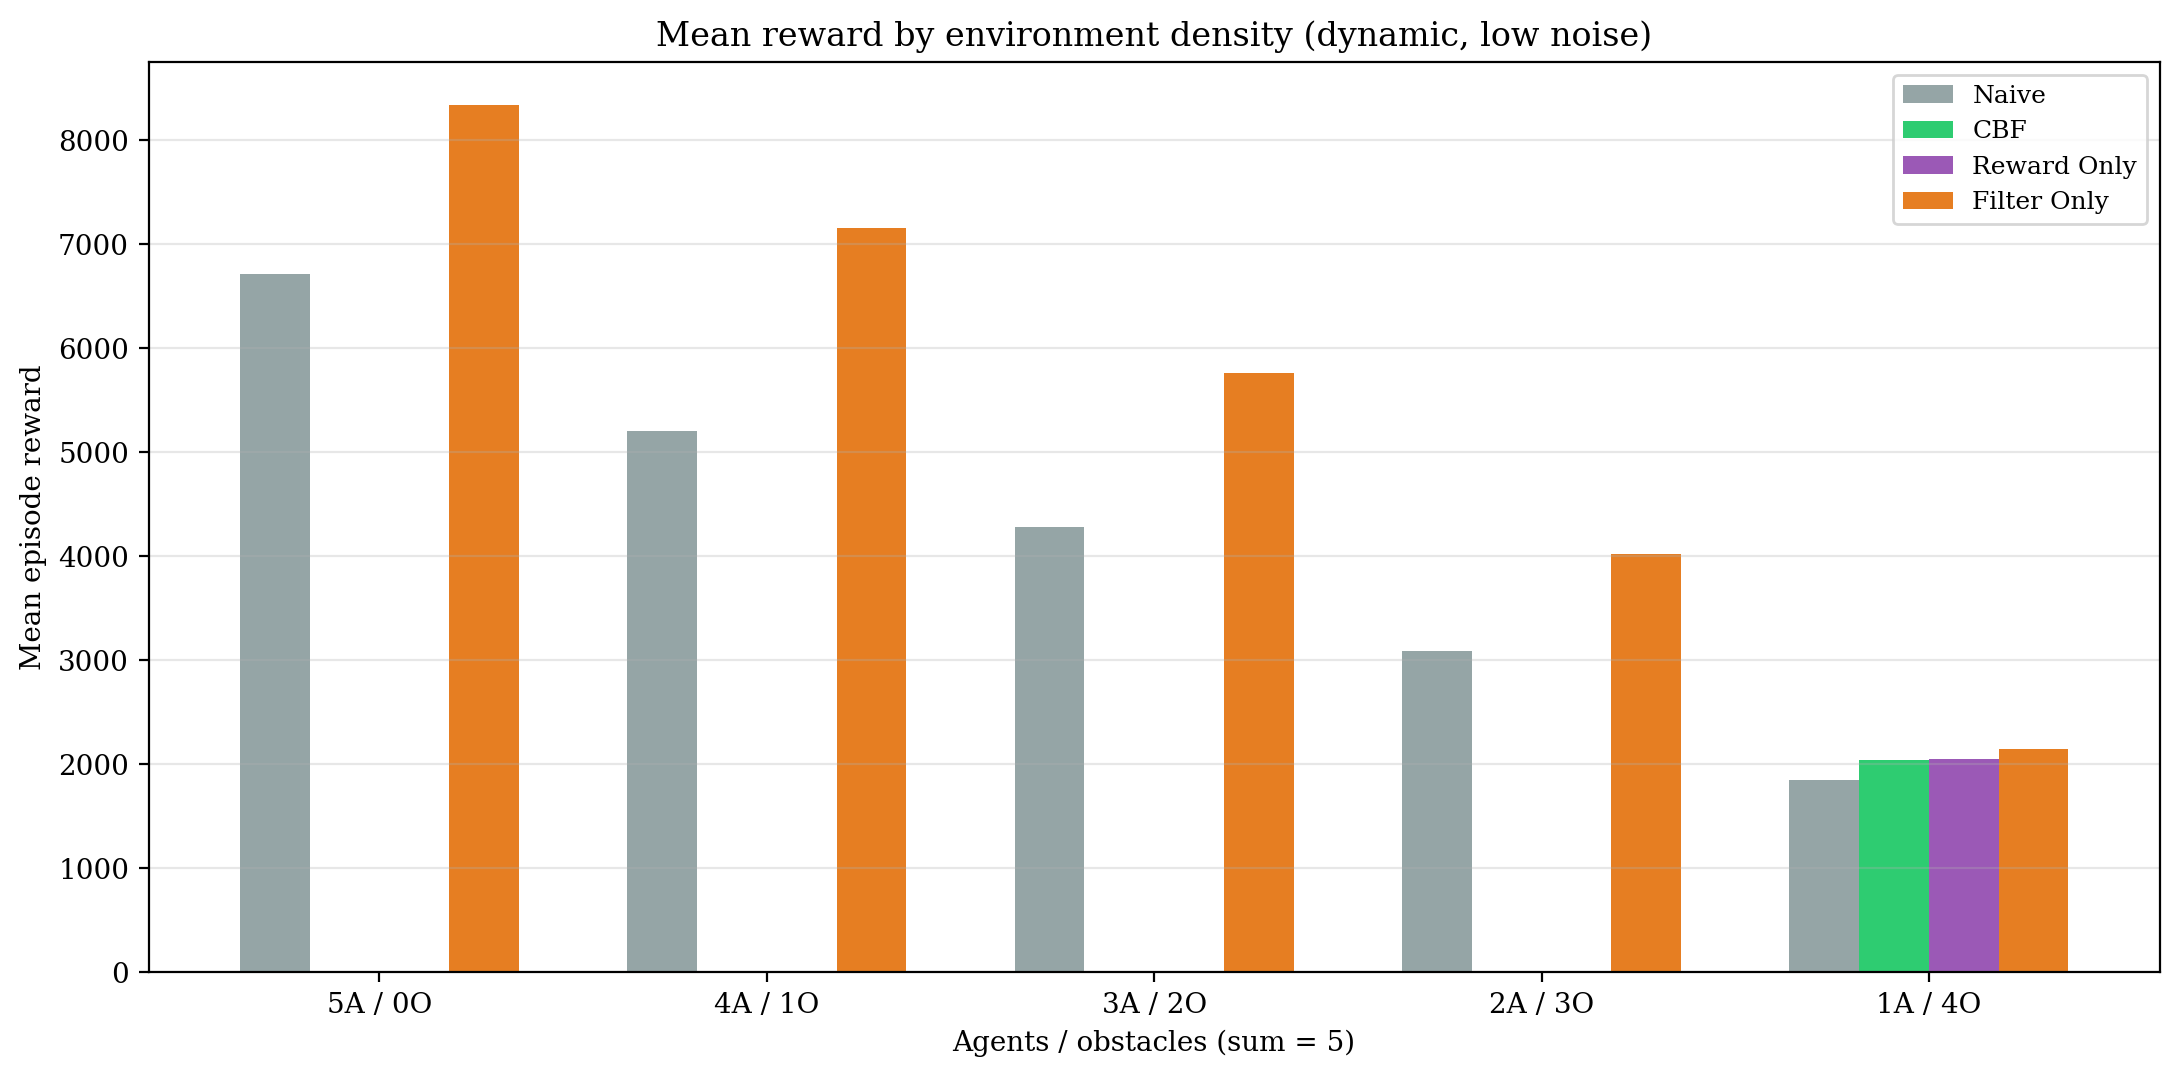
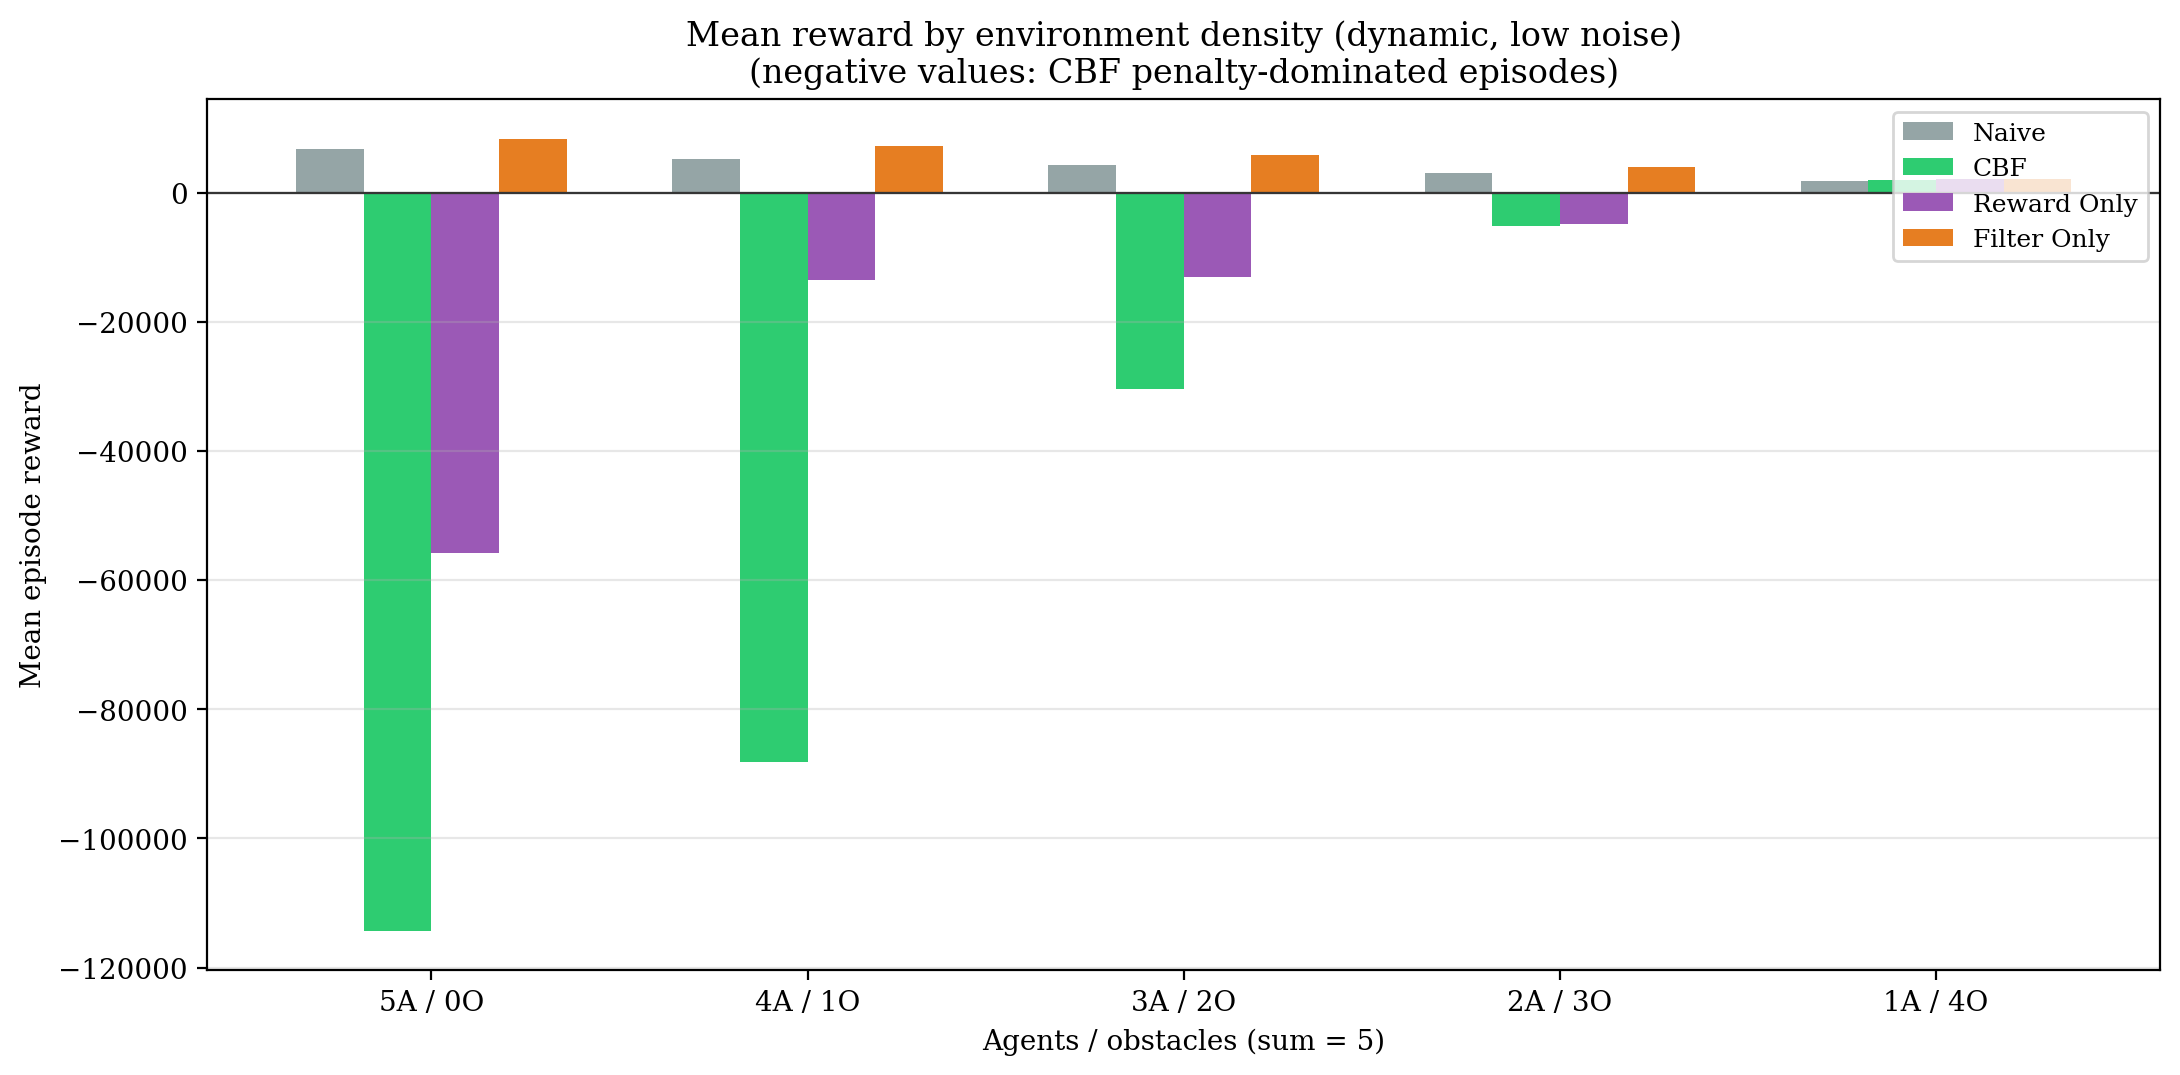
Fixed mean reward plots

diff --git a/compare_agents.py b/compare_agents.py
@@ -369,9 +369,13 @@ def plot_mean_reward_bars(
             color=POLICY_COLORS[policy],
         )
 
+    ax.axhline(0, color="black", linewidth=0.8, zorder=1)
     ax.set_ylabel("Mean episode reward")
     ax.set_xlabel("Agents / obstacles (sum = 5)")
-    ax.set_title("Mean reward by environment density (dynamic, low noise)")
+    ax.set_title(
+        "Mean reward by environment density (dynamic, low noise)\n"
+        "(negative values: CBF penalty-dominated episodes)"
+    )
     ax.set_xticks(x)
     ax.set_xticklabels([config_label(a, o) for a, o in AGENT_OBSTACLE_CONFIGS])
     ax.legend(loc="upper right", fontsize=9)

diff --git a/compare_dynamics.py b/compare_dynamics.py
@@ -51,7 +51,7 @@ FIELD_RES = {
     "agents": re.compile(r"^Agents:\s+(\d+)"),
     "obstacles": re.compile(r"^Obstacles:\s+(\d+)"),
     "episodes": re.compile(r"^Episodes:\s+(\d+)"),
-    "mean_reward": re.compile(r"^Mean Reward:\s+([\d.]+)"),
+    "mean_reward": re.compile(r"^Mean Reward:\s+(-?[\d.]+)"),
     "success_rate": re.compile(r"^Success Rate:\s+([\d.]+)%"),
     "failures_total": re.compile(r"^Failures:\s+(\d+)"),
     "failure_obstacle": re.compile(r"^ - Obstacle:\s+(\d+)"),
